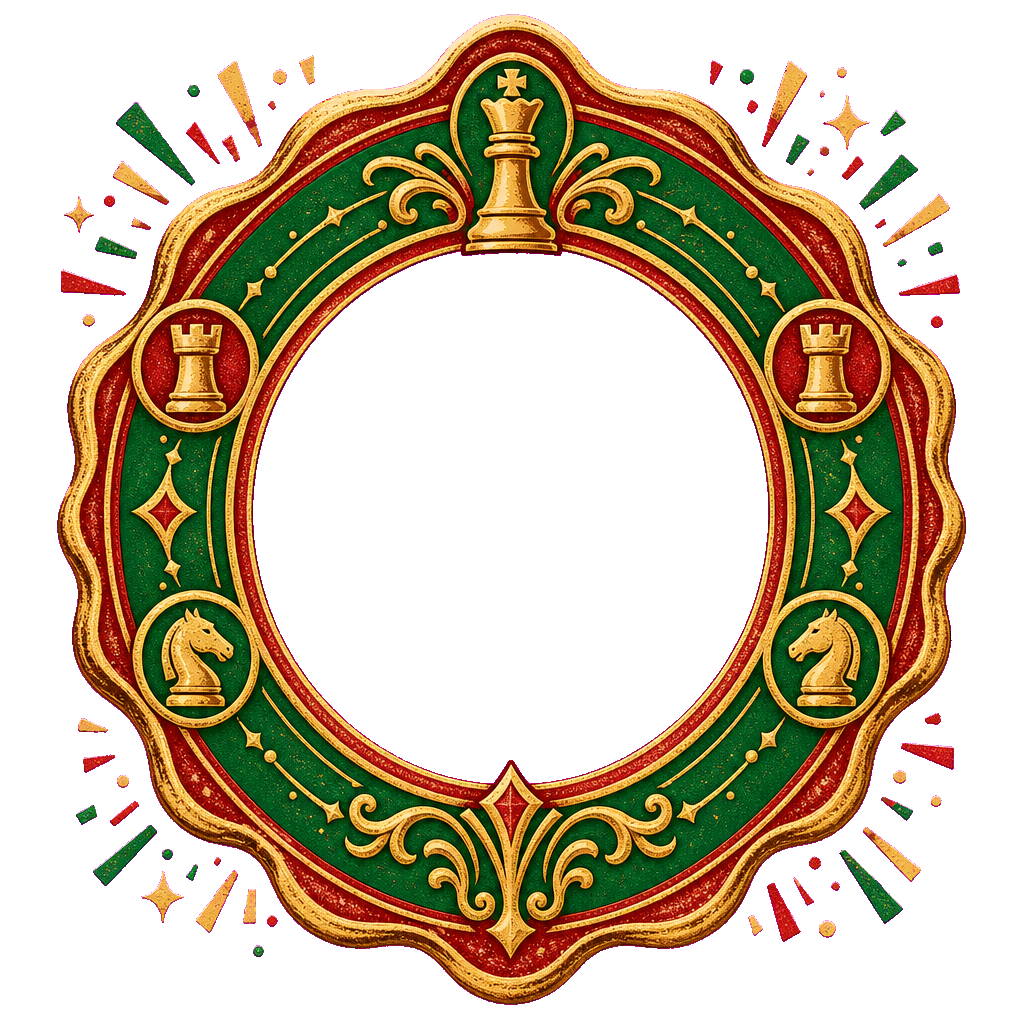
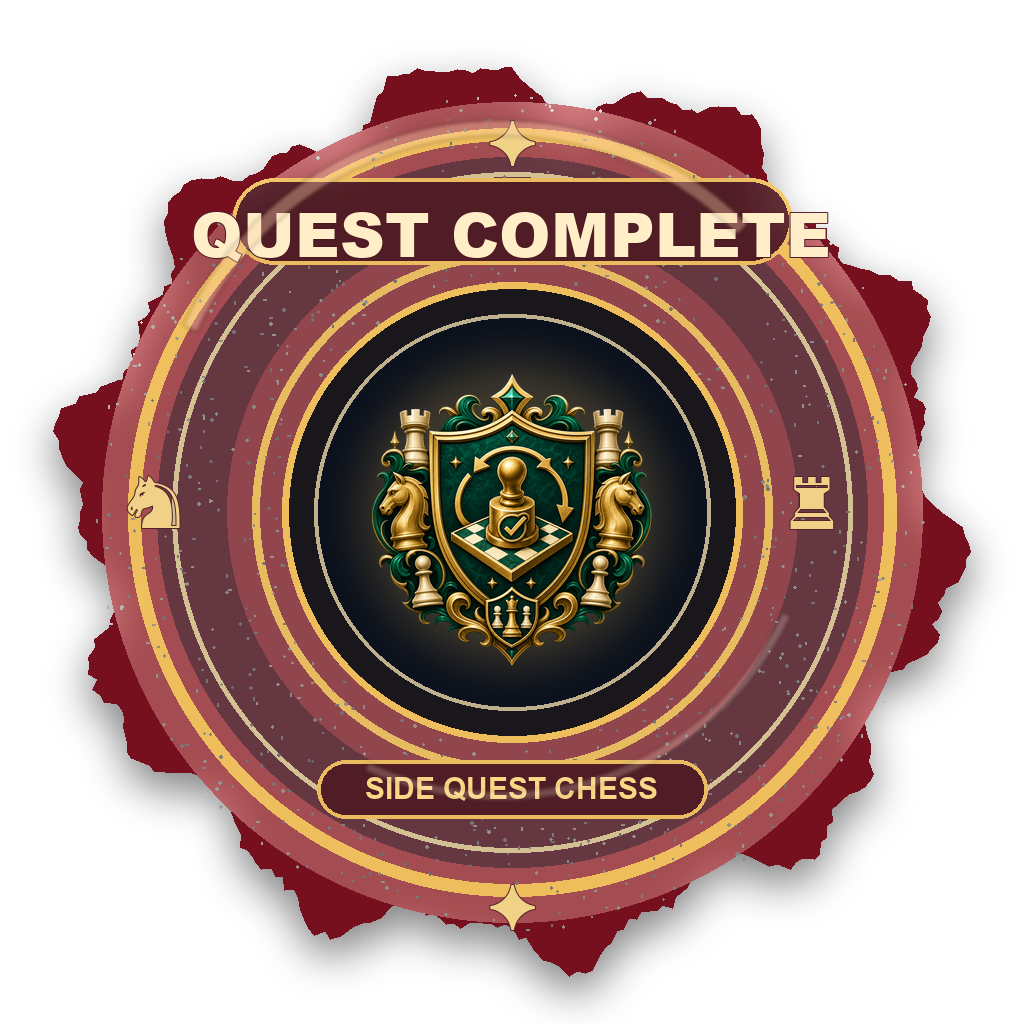
Use SQC coat of arms in completion seal

diff --git a/src/app/globals.css b/src/app/globals.css
@@ -113,8 +113,7 @@ p { color: var(--muted); line-height: 1.5; }
 .completed-quest-stamp { position: absolute; left: 72px; top: 92px; z-index: 4; width: 150px; height: 68px; background: url('/completed-quest-stamp.svg?v=1') center / contain no-repeat; filter: drop-shadow(0 10px 14px rgba(0,0,0,.28)); pointer-events: none; }
 .completed-quest-award { position: absolute; z-index: 7; right: clamp(18px, 4vw, 48px); top: clamp(44px, 7vw, 76px); width: min(34vw, 300px); min-width: 210px; aspect-ratio: 1; display: grid; place-items: center; text-align: center; pointer-events: none; filter: drop-shadow(0 24px 34px rgba(0,0,0,.38)); transform: rotate(-7deg); }
 .completed-quest-award-seal { position: absolute; inset: -12%; background: url('/stamps/quest-complete-seal.png') center / contain no-repeat; opacity: .98; }
-.completed-quest-award-text { position: relative; z-index: 2; max-width: 72%; color: #fff3c4; text-shadow: 0 2px 0 rgba(20,13,13,.76), 0 0 18px rgba(245,200,106,.5); font-family: var(--font-geist-mono), ui-monospace, SFMono-Regular, Menlo, monospace; font-size: clamp(1.1rem, 3vw, 2rem); font-weight: 1000; letter-spacing: .12em; line-height: .9; text-transform: uppercase; }
-.completed-quest-award small { position: relative; z-index: 2; max-width: 78%; margin-top: min(18vw, 112px); padding: 7px 10px; border: 1px solid rgba(245,200,106,.45); border-radius: 999px; background: rgba(20,13,13,.76); color: #f7d887; font-size: clamp(.62rem, 1.15vw, .78rem); font-weight: 950; letter-spacing: .04em; line-height: 1.2; }
+.completed-quest-award small { position: absolute; z-index: 2; left: 50%; bottom: -8px; width: max-content; max-width: 108%; transform: translateX(-50%) rotate(7deg); padding: 7px 10px; border: 1px solid rgba(245,200,106,.45); border-radius: 999px; background: rgba(20,13,13,.82); color: #f7d887; font-size: clamp(.62rem, 1.15vw, .78rem); font-weight: 950; letter-spacing: .04em; line-height: 1.2; }
 .coming-soon-quest-card { border-style: dashed; border-color: rgba(245,200,106,.28); background: linear-gradient(135deg, rgba(255,255,255,.055), rgba(245,200,106,.055)); overflow: hidden; cursor: default; }
 .coming-soon-quest-card::after { content: ""; position: absolute; inset: 0; z-index: 2; pointer-events: none; background: linear-gradient(135deg, rgba(6,5,7,.16), rgba(6,5,7,.42)); }
 .coming-soon-card-content { display: grid; grid-template-rows: auto 1fr; gap: 10px; height: 100%; filter: blur(3px) grayscale(.22); opacity: .58; transform: scale(.995); }
@@ -405,7 +404,7 @@ p { color: var(--muted); line-height: 1.5; }
   .quest-detail-hero.completed-quest-card .quest-detail-hero-grid { grid-template-columns: 1fr; min-height: 0; padding-top: 220px; }
   .quest-detail-hero.completed-quest-card .quest-detail-copy { padding-right: 0; }
   .completed-quest-award { left: 50%; right: auto; top: 18px; width: min(70vw, 240px); min-width: 190px; transform: translateX(-50%) rotate(-7deg); }
-  .completed-quest-award small { margin-top: min(42vw, 92px); }
+  .completed-quest-award small { bottom: -6px; }
   .detail-state-stamp { left: 38px; top: 124px; width: min(76%, 220px); }
   .quest-switch-crests { grid-template-columns: 1fr; }
   .quest-switch-arrow { transform: rotate(90deg); justify-self: center; }

diff --git a/src/app/challenges/[id]/page.tsx b/src/app/challenges/[id]/page.tsx
@@ -115,7 +115,6 @@ export default async function ChallengeDetailPage({
           {isCompleted ? (
             <div className="completed-quest-award" aria-label={`Quest completed. ${completedDateLabel}.`}>
               <span className="completed-quest-award-seal" aria-hidden="true" />
-              <span className="completed-quest-award-text">Quest completed</span>
               <small>{completedDate ? `Game completed ${completedDateLabel}` : completedDateLabel}</small>
             </div>
           ) : null}

diff --git a/ROADMAP.md b/ROADMAP.md
@@ -1,6 +1,6 @@
 # CC Roadmap
 
-Last updated: 2026-05-06 12:55 Europe/Stockholm
+Last updated: 2026-05-06 13:05 Europe/Stockholm
 Owner: Sam  
 Status: fresh-baseline / manual-instruction only
 
@@ -48,6 +48,13 @@ Andreas reset SQC planning on 2026-05-05:
 ## Reconfirmed wanted backlog — 2026-05-05
 
 Andreas clarified that these five items are still wanted and should be treated as the fresh post-reset SQC backlog:
+
+- [x] Revise completed quest seal to use actual SQC coat of arms.
+  - added_at: 2026-05-06 12:57 Europe/Stockholm
+  - completed_at: 2026-05-06 13:05 Europe/Stockholm
+  - source: Andreas rejected the generic generated seal and asked for a stamp/seal like the references, but with the SQC coat of arms.
+  - Proof: replaced `public/stamps/quest-complete-seal.png` with a locally composed red/gold wax-stamp style seal using the actual Proof Loop Test/SQC coat-of-arms image in the center, readable `QUEST COMPLETE` / `SIDE QUEST CHESS` text bands, and removed duplicate overlaid text from the page. Proof doc: `docs/SQC_COMPLETED_QUEST_SQC_COAT_SEAL_REVISION_2026-05-06.md`.
+  - Verification: dark-background visual preview; `pnpm lint`; `pnpm build`.
 
 - [x] Make completed quest page feel like an award state.
   - added_at: 2026-05-06 12:45 Europe/Stockholm

diff --git a/docs/SQC_COMPLETED_QUEST_SQC_COAT_SEAL_REVISION_2026-05-06.md b/docs/SQC_COMPLETED_QUEST_SQC_COAT_SEAL_REVISION_2026-05-06.md
@@ -1,0 +1,22 @@
+# SQC completed quest seal revision — 2026-05-06
+
+## Scope
+Andreas corrected the first generated completion seal: the idea was good, but the asset should be a stamp/seal closer to the provided references and should use the actual SQC coat of arms.
+
+## Changes made
+
+- Replaced the generic generated seal asset with a locally composed wax-stamp/seal asset.
+- The new `public/stamps/quest-complete-seal.png` uses:
+  - red wax/scalloped seal shape
+  - gold circular trim
+  - distressed stamp texture
+  - readable `QUEST COMPLETE` / `SIDE QUEST CHESS` text bands
+  - the actual Proof Loop Test / SQC coat-of-arms image centered inside the seal
+- Removed the extra overlaid `Quest completed` text from the page markup so the stamp itself carries the completed-state identity.
+- Kept the completion date pill below the seal.
+
+## Verification
+
+- Visual preview checked on dark background.
+- `pnpm lint` passed with only existing accepted warnings.
+- `pnpm build` passed.
